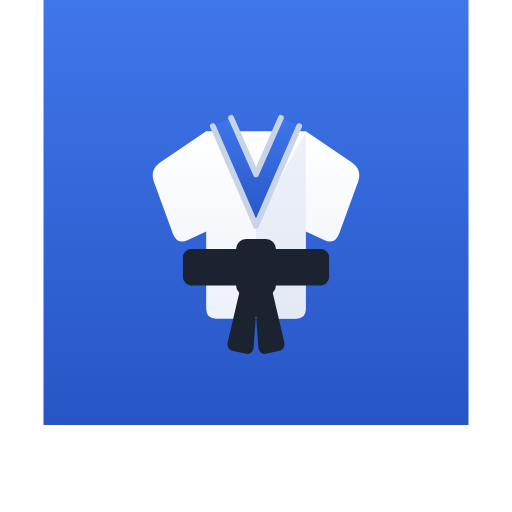
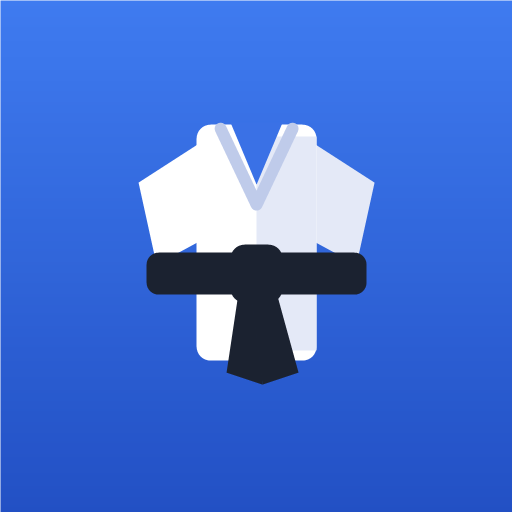
앱 이름을 태권도경기규칙및심판법으로 변경하고 앱 아이콘을 중앙 정렬된 꽉 찬 디자인으로 교체

diff --git a/app/layout.js b/app/layout.js
@@ -19,7 +19,7 @@ export const metadata = {
       { url: '/icon-192.png', sizes: '192x192', type: 'image/png' },
       { url: '/icon-512.png', sizes: '512x512', type: 'image/png' },
     ],
-    apple: '/icon-192.png',
+    apple: '/apple-touch-icon.png',
   },
   openGraph: {
     title: SITE_TITLE,
